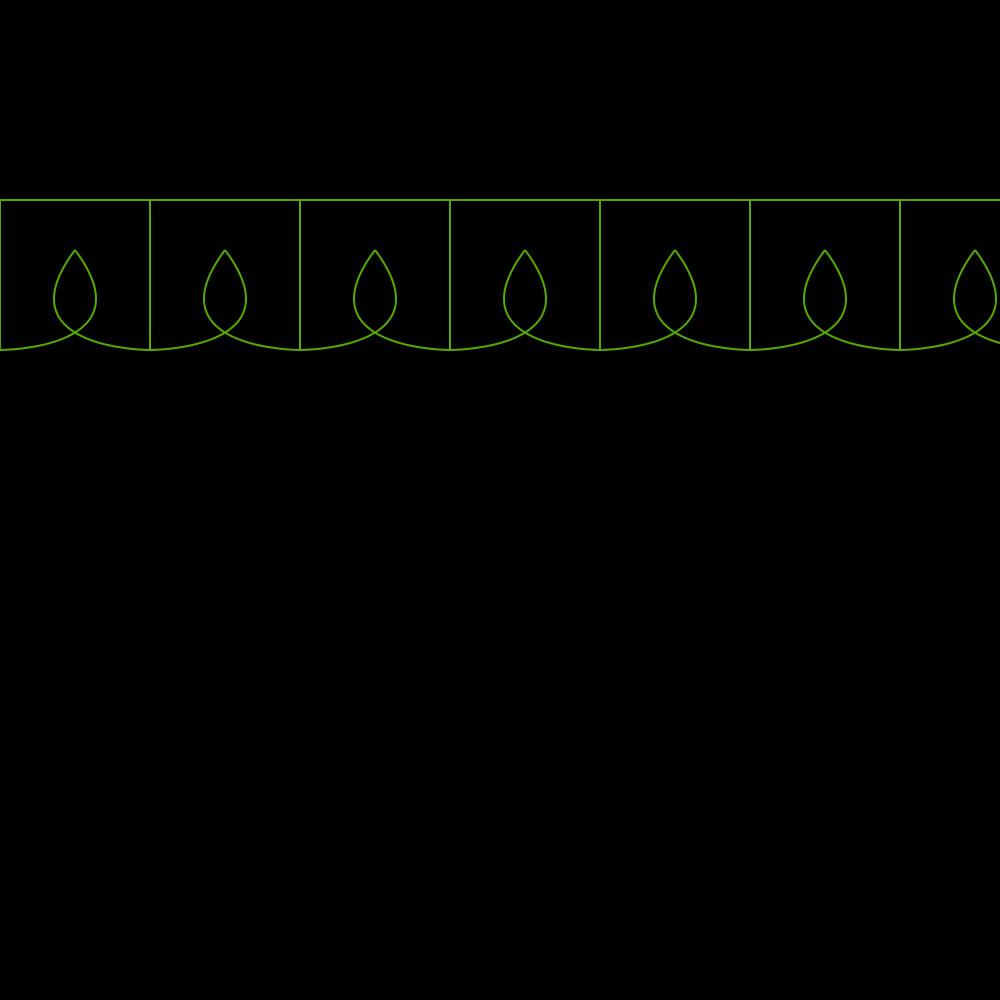
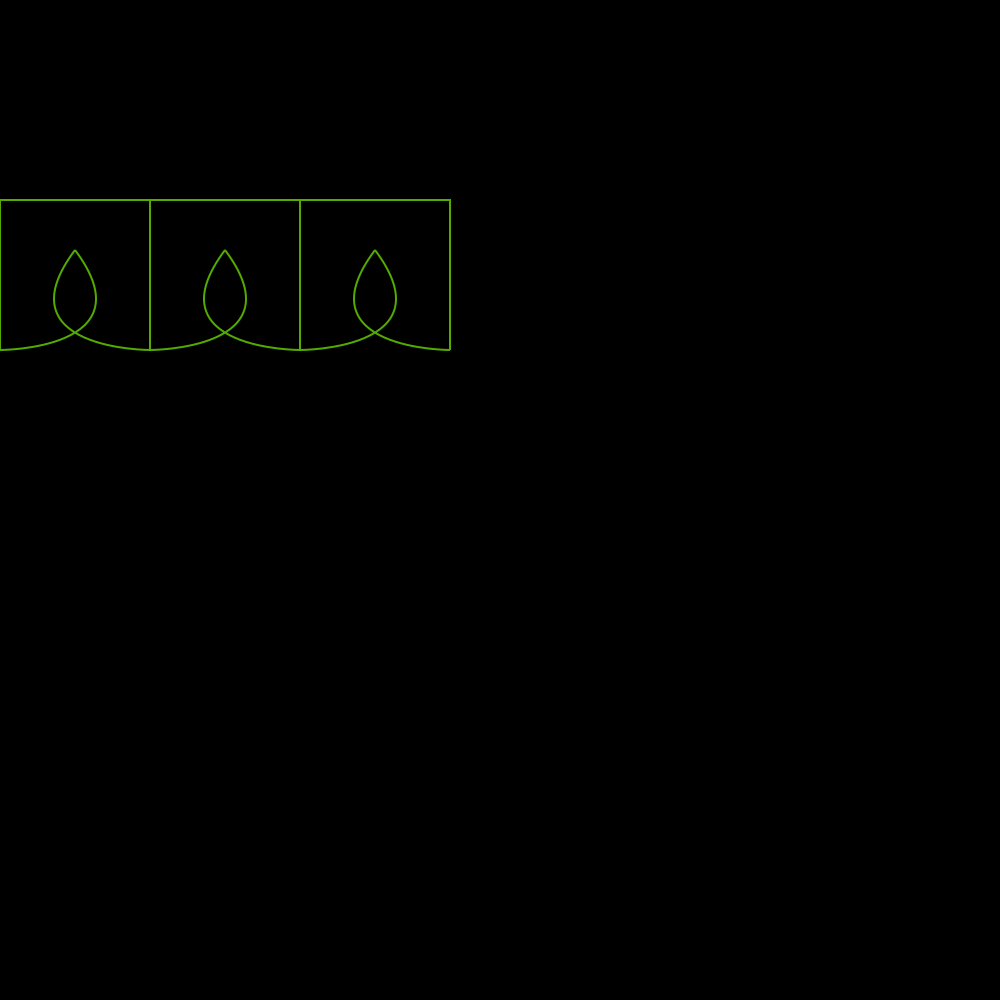
functions now take dictionary values

diff --git a/functions.py b/functions.py
@@ -8,9 +8,19 @@ import  math
 #     ctx.set_source_rgb(red,green,blue)
 
 # this function takes custom rectangle params 
-def draw_rectangle(ctx, x_start, y_start ,red, green, blue, rect_width=100, rect_height=100):
-    ctx.rectangle(x_start, y_start, rect_width, rect_height)
-    ctx.set_source_rgb(red, green, blue)
+
+def draw_rectangle(ctx, coordinates:dict):
+    if 'x_start' in coordinates and 'y_start' in coordinates and 'rect_width' in coordinates and 'rect_height' in coordinates:
+        ctx.rectangle(coordinates['x_start'], coordinates['y_start'], coordinates['rect_width'], coordinates['rect_height'])
+
+def set_shape_color(ctx, values:dict):
+    if 'r' in values and 'g' in values and 'b' in values :
+        ctx.set_source_rgb(values['r'], values['g'], values['b'])
+
+
+# def draw_rectangle(ctx, x_start, y_start ,red, green, blue, rect_width=100, rect_height=100):
+#     ctx.rectangle(x_start, y_start, rect_width, rect_height)
+#     ctx.set_source_rgb(red, green, blue)
     
 
 # this function takes custom circle params
@@ -20,6 +30,11 @@ def draw_circle(ctx, x, y, r,scalar=2,red=.33, green=.67, blue=0):
     ctx.arc(x, y, r, 0, (scalar)* math.pi)  # Full circle (0 to 2*pi radians) 
 
     ctx.set_source_rgb(red, green, blue)
+
+def dict_draw_circle(ctx, coordinates):
+    if 'x' in coordinates and 'y' in coordinates and 'radius' in coordinates:
+        ctx.arc(coordinates['x'], coordinates['y'], coordinates['radius'], 0, 2 * 3.14159)
+
     
 # this function draws an arrowhead
 def draw_arrowhead (ctx, x,y, width, height, a,b,red=.33, blue=.67,green=0 ):
@@ -68,6 +83,8 @@ def draw_pattern(ctx,n:int , x,y,
 
         n-=1
         offset+=150
+
+
 
 
 # #draw pattern1

diff --git a/playing_card.py b/playing_card.py
@@ -49,7 +49,7 @@ ctx.stroke()
 ctx.move_to(350, 350)
 # ctx.curve_to(350, 350,450, 350,400, 300)
 ctx.arc(375,325,25,0,math.pi)
-ctx.set_source_rgb(0.33, 0.67, 0)
+ctx.set_sourcea_rgb(0.33, 0.67, 0)
 
 ctx.stroke()
 
@@ -60,6 +60,13 @@ ctx.move_to(320,120) #A
 ctx.line_to(360,170) #E
 ctx.move_to(300,145) #C
 ctx.line_to(340,145) #D
+ctx.close_path()
+ctx.stroke()
+
+#draw letter A in left top corner
+ctx.move_to(600,500) #A
+ctx.line_to(650,450) #B
+
 ctx.close_path()
 ctx.stroke()
 

diff --git a/chap_4.py b/chap_4.py
@@ -7,7 +7,7 @@ ctx.set_source_rgb(.33, .33, .33)
 ctx.stroke() 
 
 #draw a pattern
-functions.draw_pattern(ctx,7,0,350,150,150)
+functions.draw_pattern(ctx,3,0,350,150,150)
 
 ctx.set_source_rgb(.33,.67,0)
 ctx.stroke()
